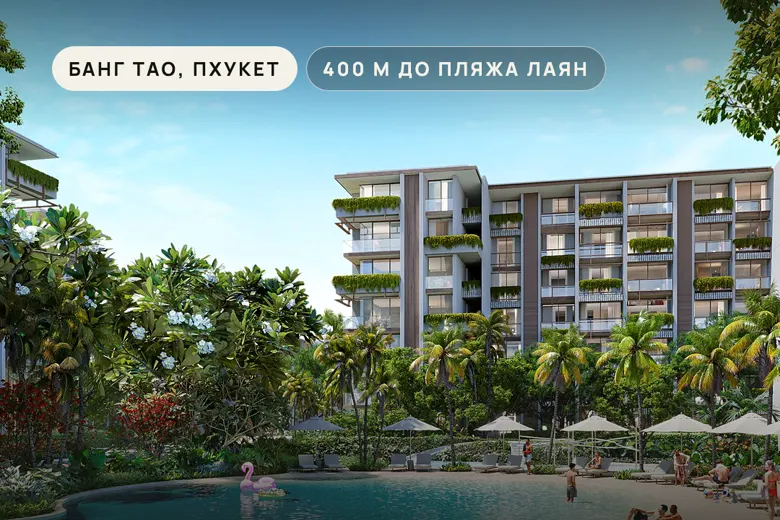
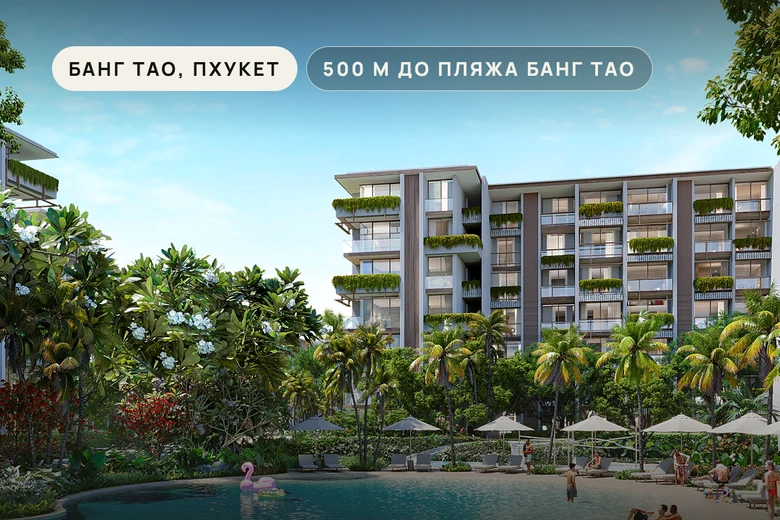
квиз Eden: 500 м до пляжа Банг Тао вместо 400 м до Лаяна (сайт застройщика Lake, 02.11), текст и плашка шапки
Claude-Session: https://claude.ai/code/session_01SYiq3siUz84AViLE1C8Csh

Changed region(s): [[0.5846, 0.0615, 0.8615, 0.1846], [0.4, 0.1231, 0.5538, 0.1538]]

diff --git a/kviz/index.html b/kviz/index.html
@@ -360,11 +360,11 @@ const P = {
   eden: {
     id:'PLP-EDEN-LAKE', name:'Eden Lake', place:'Банг Тао', hero:'lake-cover',
     ad:{img:'ad-eden', sub:'Курорт без машин на Банг Тао', big:'взнос 20%', note:'остальное в рассрочку на 5 лет', chip:'Рост прошлых фаз до +48%'},
-    h1:'Eden Lake на Банг Тао: 400 м до пляжа Лаян*',
+    h1:'Eden Lake на Банг Тао: 500 м до пляжа*',
     sub:'Третья фаза Gardens of Eden. Специально для клиентов Property Library опция дополнительного финансирования: первый взнос 20%, остальное в рассрочку на 5 лет.',
     foot:'*Каталог застройщика',
     gifts:['Цены и планировки Eden Lake','Опция финансирования: взнос 20%, рассрочка 5 лет','Резиденции по виду и этажу'],
-    facts:[['от 11,9 млн ฿','1-спальная, 52 м²'],['400 м','до пляжа Лаян'],['20%','первый взнос, рассрочка 5 лет'],['до +48%','рост прошлых фаз']],
+    facts:[['от 11,9 млн ฿','1-спальная, 52 м²'],['500 м','до пляжа Банг Тао'],['20%','первый взнос, рассрочка 5 лет'],['до +48%','рост прошлых фаз']],
     gal:['lake-pool','lake-club','lake-int1'], sheet:'https://property-library.com/eden', bot:'kviz_eden',
     Q:[
       {k:'plan', q:'Сколько спален?',
@@ -463,12 +463,12 @@ const EN_P = {
     facts:[['from 3.42M ฿','studio, 24.4 m²'],['750 m','to Bang Tao beach'],['56 m','rooftop infinity pool'],['10%','on key handover']],
     mot:'Message me now and I will send Millennium prices and floor plans under the foreign quota and pick the best floor and view.' },
   /* 02.11 Eden Lake EN (Эльнур 02.11 «эден пурита рус и англ трафик»): перевод P.eden, ничего нового. Картинка lake-cover:
-     на ad-eden русские плашки «Банг Тао, Пхукет», «400 м до пляжа Лаян» */
-  eden: { place:'Bang Tao', h1:'Eden Lake in Bang Tao: 400 m to Layan beach*',
+     на ad-eden русские плашки «Банг Тао, Пхукет», «500 м до пляжа Банг Тао» (02.11: было 400 м до Лаяна без источника; сайт застройщика «500 meters from Bang Tao beach») */
+  eden: { place:'Bang Tao', h1:'Eden Lake in Bang Tao: 500 m to the beach*',
     ad:{ img:'lake-cover', sub:'Car-free resort in Bang Tao', big:'20% down payment', note:'the rest in instalments over 5 years', chip:'Past phases grew up to +48%' },
     foot:'*Developer catalogue',
     gifts:['Eden Lake prices and floor plans','Financing option: 20% down payment, 5-year instalments','Residences by view and floor'],
-    facts:[['from 11.9M ฿','1 bedroom, 52 m²'],['400 m','to Layan beach'],['20%','first payment, 5-year instalments'],['up to +48%','growth of past phases']],
+    facts:[['from 11.9M ฿','1 bedroom, 52 m²'],['500 m','to Bang Tao beach'],['20%','first payment, 5-year instalments'],['up to +48%','growth of past phases']],
     mot:'Message me now and I will send Eden Lake prices, floor plans and a 5-year instalment plan with a 20% first payment.' },
   /* 02.11 виза LTR: те же факты, что в русском P.visa и в тексте EN-объявления (тексты_v2.md) */
   visa: { place:'Phuket', h1:'A 10-year visa for your whole family*',
